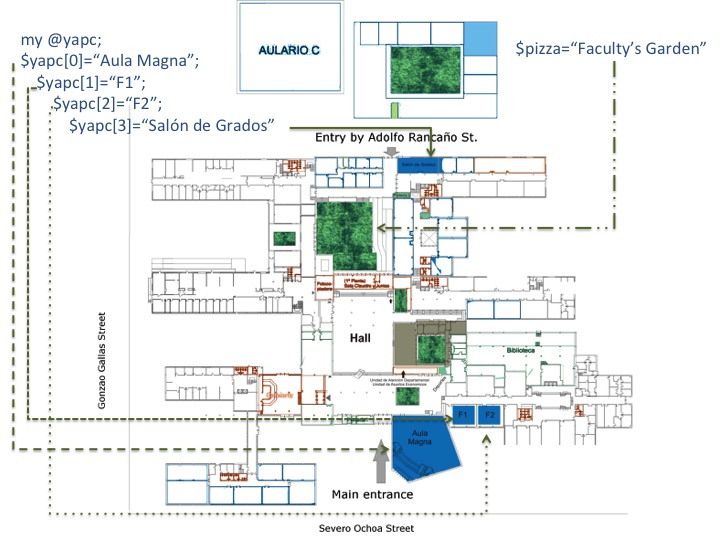
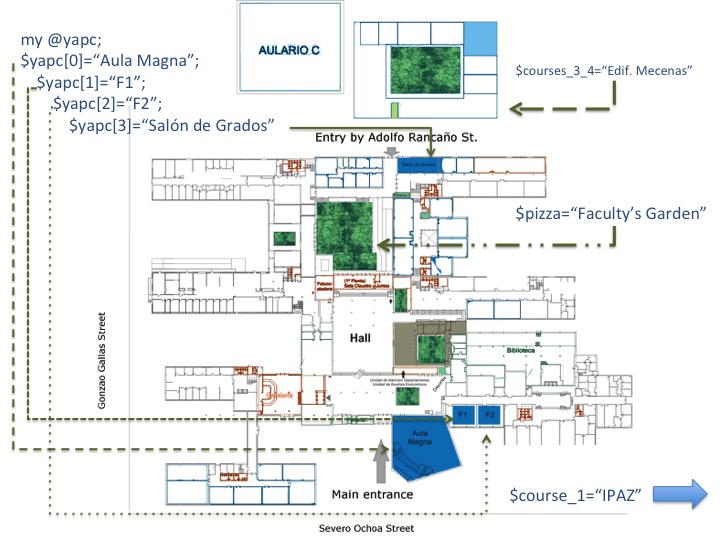
Adding information about courses

diff --git a/actdocs/static/venue.html b/actdocs/static/venue.html
@@ -6,8 +6,8 @@
     <li><a href="#location">Conference location</a></li>
     <li><a href="#buslines">Bus lines</a></li>
     <li><a href="#rooms">Rooms location</a></li>
-    <li><a href="#"></a></li>
-    <li><a href="#"></a></li>
+    <li><a href="#roomscourses">Rooms for courses</a></li>
+    <!--<li><a href="#"></a></li>-->
   </ul>
 
     <h2 id="location">Conference location</h2>
@@ -54,6 +54,17 @@
         <li><code>$yaps[2]</code> is room F2</li>
         <li><code>$yaps[3]</code> is Salón de Grados</li>
       </ul>
-          <a href="/ye2015/img/plano-ciencias-rooms.png"><img src="/ye2015/img/plano-ciencias-rooms.png" style="align: center; width: 25%;"></a>
+          <a href="/ye2015/img/plano-ciencias-rooms.png"><img src="/ye2015/img/plano-ciencias-rooms.png" style="align: center; width: 50%;"></a>
+
+          <h2 id="roomscourses">Rooms for courses</h2>
+          <p>
+            There exist <a href="/ye2015/courses.html">three courses</a> associated to YAPC::EU.
+          </p>
+          <p>
+            Course 1 (<a href="/ye2015/courses.html#course1">Web Application Development using AngularJS and Perl</a>, by Gabor Szabo) <a href="http://iemath.ugr.es/welcome/addresses-and-access/" target="_blank">will take place at IEMath</a>, that <strong>is not inside</strong> the Faculty of Sciences, but 5 minutes-walk away.
+          </p>
+          <p>
+            The rest of courses will be held at "Edificio Mecenas", a building next to the Faculty of Sciences, as you can see in the previous image.
+          </p>
 </div>
  [% END %]
